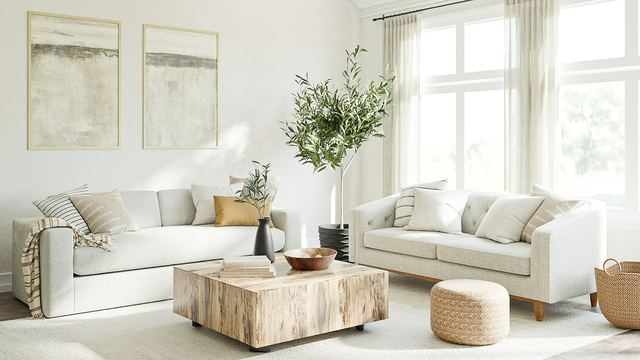
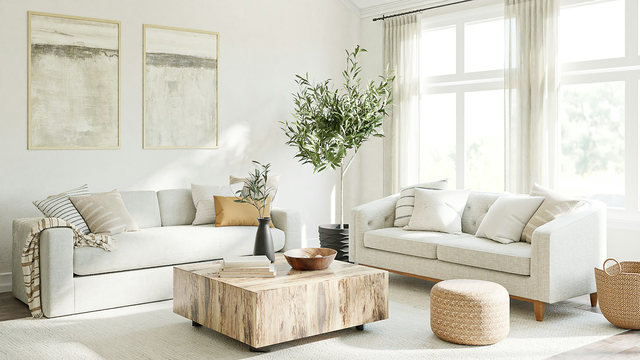
Stronger parallax; hero back to its full crop and quality; bathroom photo lower
- Photo layer travel now equals its real extra height (30% for page heads,
  12% for the tall hero so the sofa is not cropped out).
- Hero served from the untouched 1920px file at quality 90; 1600 step removed.
- FAQ bathroom positioned at 78% so the bath sits in view.

Changed region(s): [[0.4375, 0.2444, 0.5938, 0.4278], [0.9375, 0.7028, 0.9688, 0.7333], [0.375, 0.55, 0.4062, 0.5806]]

diff --git a/faq.html b/faq.html
@@ -8,7 +8,7 @@
 <link rel="preload" as="style" href="https://fonts.googleapis.com/css2?family=Playfair+Display:wght@500;600;700&family=Inter:wght@400;500;600;650;700&display=swap">
 <link rel="stylesheet" href="https://fonts.googleapis.com/css2?family=Playfair+Display:wght@500;600;700&family=Inter:wght@400;500;600;650;700&display=swap" media="print" onload="this.media='all'">
 <noscript><link rel="stylesheet" href="https://fonts.googleapis.com/css2?family=Playfair+Display:wght@500;600;700&family=Inter:wght@400;500;600;650;700&display=swap"></noscript>
-<link rel="stylesheet" href="css/style.css?v=c75b5a59">
+<link rel="stylesheet" href="css/style.css?v=407464aa">
 <title>The Aly Touch — Questions and answers</title>
 <meta name="description" content="Answers to the questions people ask The Aly Touch before booking: how it works, what it costs, what is included, and how visits are arranged in Guernsey.">
 <link rel="icon" href="favicon.svg" type="image/svg+xml">
@@ -201,7 +201,7 @@
 
 <main id="main">
 <section class="section section--tight section--wash photo-band">
[2 lines of base64/hex data omitted]
   <div class="wrap">
     <div class="section-head">
       <span class="eyebrow">Questions &amp; answers</span>
@@ -381,6 +381,6 @@
     </div>
   </div>
 </footer>
-<script src="js/site.js?v=ae9345b0"></script>
+<script src="js/site.js?v=fe740975"></script>
 </body>
 </html>

diff --git a/index.html b/index.html
@@ -8,7 +8,7 @@
 <link rel="preload" as="style" href="https://fonts.googleapis.com/css2?family=Playfair+Display:wght@500;600;700&family=Inter:wght@400;500;600;650;700&display=swap">
 <link rel="stylesheet" href="https://fonts.googleapis.com/css2?family=Playfair+Display:wght@500;600;700&family=Inter:wght@400;500;600;650;700&display=swap" media="print" onload="this.media='all'">
 <noscript><link rel="stylesheet" href="https://fonts.googleapis.com/css2?family=Playfair+Display:wght@500;600;700&family=Inter:wght@400;500;600;650;700&display=swap"></noscript>
-<link rel="stylesheet" href="css/style.css?v=c75b5a59">
+<link rel="stylesheet" href="css/style.css?v=407464aa">
 <title>The Aly Touch — Home cleaning in Guernsey</title>
 <meta name="description" content="Home cleaning in Guernsey — rooms, bathrooms, bed making and presentation, ovens, fridges and windows, plus deep cleans, end of tenancy, after builders and holiday changeovers.">
 <link rel="icon" href="favicon.svg" type="image/svg+xml">
@@ -61,8 +61,8 @@
 </header>
 
 <main id="main">
-<section class="hero photo-band" id="hero">
[1 lines of base64/hex data omitted]
+<section class="hero photo-band photo-band--tall" id="hero">
[1 lines of base64/hex data omitted]
   <div class="wrap hero__inner">
     <div class="hero__copy">
       <span class="eyebrow">Home cleaning in <span data-site="area">Guernsey</span></span>
@@ -415,6 +415,6 @@
     </div>
   </div>
 </footer>
-<script src="js/site.js?v=ae9345b0"></script>
+<script src="js/site.js?v=fe740975"></script>
 </body>
 </html>

diff --git a/css/style.css b/css/style.css
@@ -1000,8 +1000,11 @@ p:last-child { margin-bottom: 0; }
    on scroll (a slow parallax), and a light ivory wash keeps the copy legible
    on the left where it sits. Reduced-motion users get a still image. */
 .photo-band { position: relative; overflow: hidden; isolation: isolate; }
+.photo-band { --px-extra: 30%; }
+.photo-band--tall { --px-extra: 12%; }
 .photo-band__media {
-  position: absolute; left: 0; right: 0; top: -22%; height: 144%;
+  position: absolute; left: 0; right: 0;
+  top: calc(-1 * var(--px-extra)); height: calc(100% + 2 * var(--px-extra));
   z-index: -1; pointer-events: none;
   background: var(--page-tiny) center / cover no-repeat;
   will-change: transform;

diff --git a/js/site.js b/js/site.js
@@ -179,7 +179,7 @@ document.addEventListener("DOMContentLoaded", () => {
         if (r.bottom < 0 || r.top > vh) return;
         // -1 when the band's centre is at the top of the screen, +1 at the bottom.
         const t = ((r.top + r.height / 2) - vh / 2) / (vh / 2 + r.height / 2);
-        const room = r.height * 0.22;          // the extra height above and below
+        const room = (layer.offsetHeight - r.height) / 2;   // the extra height above and below
         layer.style.transform = `translate3d(0, ${(-t * room).toFixed(1)}px, 0)`;
       });
       ticking = false;
